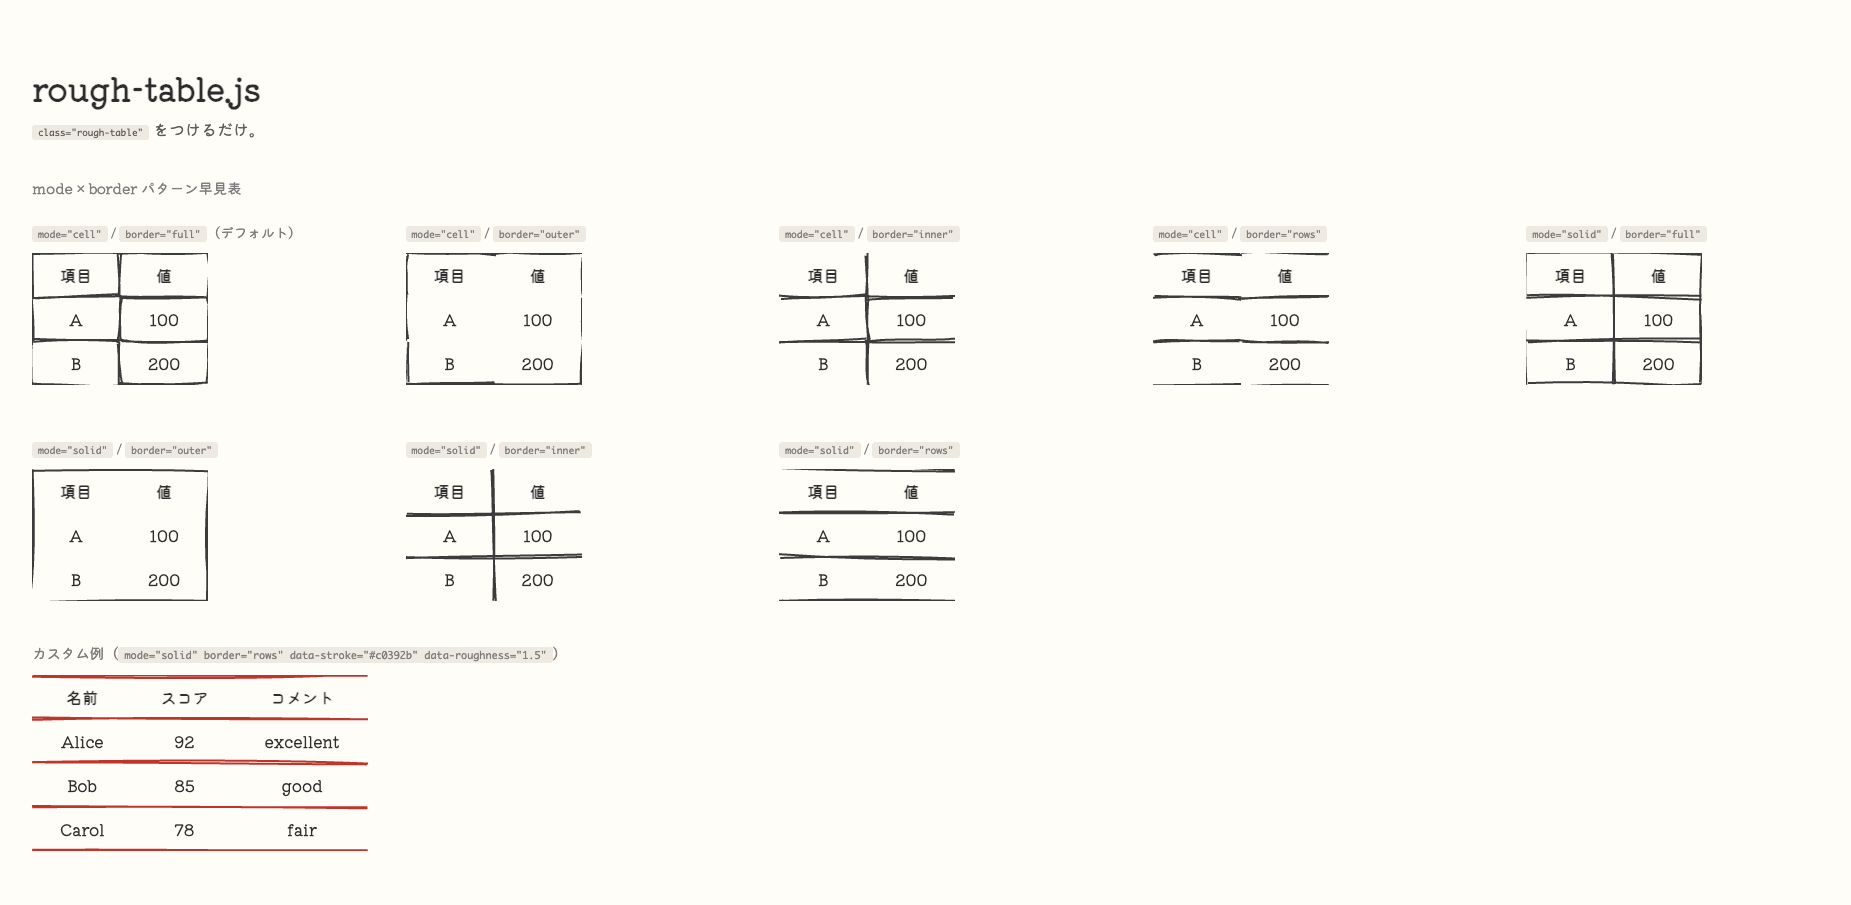
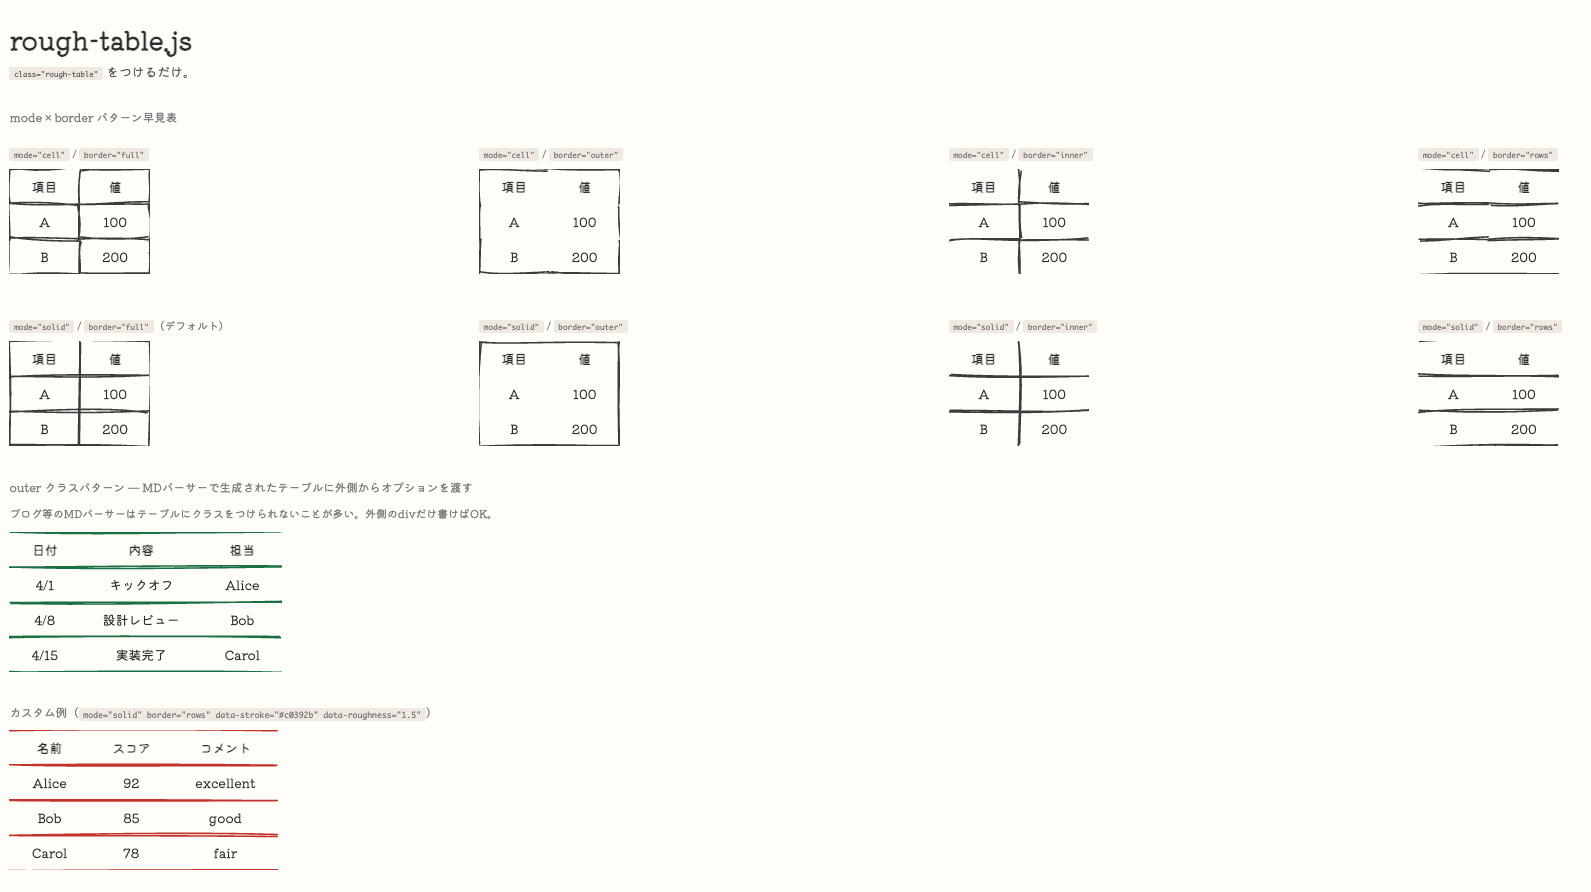
change default solid

diff --git a/rough-table.min.js b/rough-table.min.js
@@ -1,1 +1,1 @@
-(function(global){"use strict";const TRIGGER_CLASS="rough-table";const OUTER_CLASS="rough-table-outer";const CONTAINER_CLASS="rough-table-container";const SVG_ATTR="_roughTableSvg";const DEFAULTS={roughness:1.5,stroke:"#444",strokeWidth:2,bowing:1,mode:"cell",border:"full"};function parseOptions(el){const d=el.dataset;return{roughness:parseFloat(d.roughness??DEFAULTS.roughness),stroke:d.stroke??DEFAULTS.stroke,strokeWidth:parseFloat(d.strokeWidth??DEFAULTS.strokeWidth),bowing:parseFloat(d.bowing??DEFAULTS.bowing),mode:d.mode??DEFAULTS.mode,border:d.border??DEFAULTS.border}}function draw(table,optionsEl){if(typeof rough==="undefined"){console.warn("[rough-table] rough.js が読み込まれていません。");return}optionsEl=optionsEl||table;if(table[SVG_ATTR]){table[SVG_ATTR].remove();table[SVG_ATTR]=null}let container=table.parentElement;if(!container.classList.contains(CONTAINER_CLASS)){container=document.createElement("div");container.className=CONTAINER_CLASS;table.parentNode.insertBefore(container,table);container.appendChild(table)}Object.assign(container.style,{position:"relative",display:"inline-block"});Object.assign(table.style,{borderCollapse:"collapse",position:"relative",zIndex:"1",background:"transparent"});table.querySelectorAll("th, td").forEach(cell=>{cell.style.border="none"});const svg=document.createElementNS("http://www.w3.org/2000/svg","svg");Object.assign(svg.style,{position:"absolute",top:"0",left:"0",pointerEvents:"none",zIndex:"0"});svg.setAttribute("width",table.offsetWidth);svg.setAttribute("height",table.offsetHeight);container.insertBefore(svg,table);table[SVG_ATTR]=svg;const rc=rough.svg(svg);const opts=parseOptions(optionsEl);const lineOpts={stroke:opts.stroke,strokeWidth:opts.strokeWidth,roughness:opts.roughness,bowing:opts.bowing};const tableRect=table.getBoundingClientRect();const rows=Array.from(table.rows);if(opts.mode==="solid"){drawSolid(rows,tableRect,svg,rc,lineOpts,opts.border)}else{drawCell(rows,tableRect,svg,rc,lineOpts,opts.border)}}function drawCell(rows,tableRect,svg,rc,lineOpts,border){const totalRows=rows.length;rows.forEach((row,rowIndex)=>{const cells=Array.from(row.cells);cells.forEach((cell,colIndex)=>{const r=cell.getBoundingClientRect();const x=r.left-tableRect.left;const y=r.top-tableRect.top;const w=r.width;const h=r.height;const isFirstRow=rowIndex===0;const isLastRow=rowIndex===totalRows-1;const isFirstCol=colIndex===0;const isLastCol=colIndex===cells.length-1;const isHeader=cell.tagName==="TH";let top,bottom,left,right;switch(border){case"outer":top=isFirstRow;bottom=isLastRow;left=isFirstCol;right=isLastCol;break;case"inner":top=false;bottom=!isLastRow;left=!isFirstCol;right=false;break;case"rows":top=isFirstRow;bottom=true;left=false;right=false;break;default:top=isFirstRow||isHeader;bottom=true;left=true;right=isLastCol}if(top)svg.appendChild(rc.line(x,y,x+w,y,lineOpts));if(bottom)svg.appendChild(rc.line(x,y+h,x+w,y+h,lineOpts));if(left)svg.appendChild(rc.line(x,y,x,y+h,lineOpts));if(right)svg.appendChild(rc.line(x+w,y,x+w,y+h,lineOpts))})})}function drawSolid(rows,tableRect,svg,rc,lineOpts,border){const W=tableRect.width;const H=tableRect.height;const drawHLines=()=>{rows.slice(0,-1).forEach(row=>{const y=row.getBoundingClientRect().bottom-tableRect.top;svg.appendChild(rc.line(0,y,W,y,lineOpts))})};const drawVLines=()=>{const xSet=new Set;rows.forEach(row=>{Array.from(row.cells).slice(0,-1).forEach(cell=>{const x=Math.round(cell.getBoundingClientRect().right-tableRect.left);xSet.add(x)})});xSet.forEach(x=>svg.appendChild(rc.line(x,0,x,H,lineOpts)))};switch(border){case"outer":svg.appendChild(rc.rectangle(0,0,W,H,lineOpts));break;case"inner":drawHLines();drawVLines();break;case"rows":svg.appendChild(rc.line(0,0,W,0,lineOpts));svg.appendChild(rc.line(0,H,W,H,lineOpts));drawHLines();break;default:svg.appendChild(rc.rectangle(0,0,W,H,lineOpts));drawHLines();drawVLines()}}function observe(table,optionsEl){if(!window.ResizeObserver)return;const observer=new ResizeObserver(()=>draw(table,optionsEl));observer.observe(table)}function init(selector){document.querySelectorAll(selector||"."+TRIGGER_CLASS).forEach(table=>{draw(table);observe(table)});if(selector)return;document.querySelectorAll("."+OUTER_CLASS).forEach(outer=>{const table=outer.querySelector("table");if(!table)return;draw(table,outer);observe(table,outer)})}if(document.readyState==="loading"){document.addEventListener("DOMContentLoaded",()=>init())}else{init()}global.RoughTable={init:init,draw:draw}})(window);
+(function(global){"use strict";const TRIGGER_CLASS="rough-table";const OUTER_CLASS="rough-table-outer";const CONTAINER_CLASS="rough-table-container";const SVG_ATTR="_roughTableSvg";const DEFAULTS={roughness:1.5,stroke:"#444",strokeWidth:2,bowing:1,mode:"solid",border:"full"};function parseOptions(el){const d=el.dataset;return{roughness:parseFloat(d.roughness??DEFAULTS.roughness),stroke:d.stroke??DEFAULTS.stroke,strokeWidth:parseFloat(d.strokeWidth??DEFAULTS.strokeWidth),bowing:parseFloat(d.bowing??DEFAULTS.bowing),mode:d.mode??DEFAULTS.mode,border:d.border??DEFAULTS.border}}function draw(table,optionsEl){if(typeof rough==="undefined"){console.warn("[rough-table] rough.js が読み込まれていません。");return}optionsEl=optionsEl||table;if(table[SVG_ATTR]){table[SVG_ATTR].remove();table[SVG_ATTR]=null}let container=table.parentElement;if(!container.classList.contains(CONTAINER_CLASS)){container=document.createElement("div");container.className=CONTAINER_CLASS;table.parentNode.insertBefore(container,table);container.appendChild(table)}Object.assign(container.style,{position:"relative",display:"inline-block"});Object.assign(table.style,{borderCollapse:"collapse",position:"relative",zIndex:"1",background:"transparent"});table.querySelectorAll("th, td").forEach(cell=>{cell.style.border="none"});const svg=document.createElementNS("http://www.w3.org/2000/svg","svg");Object.assign(svg.style,{position:"absolute",top:"0",left:"0",pointerEvents:"none",zIndex:"0"});svg.setAttribute("width",table.offsetWidth);svg.setAttribute("height",table.offsetHeight);container.insertBefore(svg,table);table[SVG_ATTR]=svg;const rc=rough.svg(svg);const opts=parseOptions(optionsEl);const lineOpts={stroke:opts.stroke,strokeWidth:opts.strokeWidth,roughness:opts.roughness,bowing:opts.bowing};const tableRect=table.getBoundingClientRect();const rows=Array.from(table.rows);if(opts.mode==="solid"){drawSolid(rows,tableRect,svg,rc,lineOpts,opts.border)}else{drawCell(rows,tableRect,svg,rc,lineOpts,opts.border)}}function drawCell(rows,tableRect,svg,rc,lineOpts,border){const totalRows=rows.length;rows.forEach((row,rowIndex)=>{const cells=Array.from(row.cells);cells.forEach((cell,colIndex)=>{const r=cell.getBoundingClientRect();const x=r.left-tableRect.left;const y=r.top-tableRect.top;const w=r.width;const h=r.height;const isFirstRow=rowIndex===0;const isLastRow=rowIndex===totalRows-1;const isFirstCol=colIndex===0;const isLastCol=colIndex===cells.length-1;const isHeader=cell.tagName==="TH";let top,bottom,left,right;switch(border){case"outer":top=isFirstRow;bottom=isLastRow;left=isFirstCol;right=isLastCol;break;case"inner":top=false;bottom=!isLastRow;left=!isFirstCol;right=false;break;case"rows":top=isFirstRow;bottom=true;left=false;right=false;break;default:top=isFirstRow||isHeader;bottom=true;left=true;right=isLastCol}if(top)svg.appendChild(rc.line(x,y,x+w,y,lineOpts));if(bottom)svg.appendChild(rc.line(x,y+h,x+w,y+h,lineOpts));if(left)svg.appendChild(rc.line(x,y,x,y+h,lineOpts));if(right)svg.appendChild(rc.line(x+w,y,x+w,y+h,lineOpts))})})}function drawSolid(rows,tableRect,svg,rc,lineOpts,border){const W=tableRect.width;const H=tableRect.height;const drawHLines=()=>{rows.slice(0,-1).forEach(row=>{const y=row.getBoundingClientRect().bottom-tableRect.top;svg.appendChild(rc.line(0,y,W,y,lineOpts))})};const drawVLines=()=>{const xSet=new Set;rows.forEach(row=>{Array.from(row.cells).slice(0,-1).forEach(cell=>{const x=Math.round(cell.getBoundingClientRect().right-tableRect.left);xSet.add(x)})});xSet.forEach(x=>svg.appendChild(rc.line(x,0,x,H,lineOpts)))};switch(border){case"outer":svg.appendChild(rc.rectangle(0,0,W,H,lineOpts));break;case"inner":drawHLines();drawVLines();break;case"rows":svg.appendChild(rc.line(0,0,W,0,lineOpts));svg.appendChild(rc.line(0,H,W,H,lineOpts));drawHLines();break;default:svg.appendChild(rc.rectangle(0,0,W,H,lineOpts));drawHLines();drawVLines()}}function observe(table,optionsEl){if(!window.ResizeObserver)return;const observer=new ResizeObserver(()=>draw(table,optionsEl));observer.observe(table)}function init(selector){document.querySelectorAll(selector||"."+TRIGGER_CLASS).forEach(table=>{draw(table);observe(table)});if(selector)return;document.querySelectorAll("."+OUTER_CLASS).forEach(outer=>{const table=outer.querySelector("table");if(!table)return;draw(table,outer);observe(table,outer)})}if(document.readyState==="loading"){document.addEventListener("DOMContentLoaded",()=>init())}else{init()}global.RoughTable={init:init,draw:draw}})(window);

diff --git a/examples/index.html b/examples/index.html
@@ -4,6 +4,7 @@
   <meta charset="UTF-8">
   <title>rough-table.js デモ</title>
   <script src="https://unpkg.com/roughjs@latest/bundled/rough.js"></script>
+  <script src="../rough-table.min.js"></script>
   <link href="https://fonts.googleapis.com/css2?family=Kiwi+Maru&display=swap" rel="stylesheet">
   <style>
     body { font-family: 'Kiwi Maru', serif; padding: 50px; background: #fffdf9; color: #333; }
@@ -19,7 +20,7 @@
 
     .grid {
       display: grid;
-      grid-template-columns: repeat(auto-fill, minmax(260px, 1fr));
+      grid-template-columns: repeat(4, 1fr);
       gap: 3em 4em;
       margin-top: 1.5em;
     }
@@ -36,8 +37,8 @@
 <div class="grid">
 
   <div class="grid-item">
-    <h3><code>mode="cell"</code> / <code>border="full"</code>（デフォルト）</h3>
-    <table class="rough-table">
+    <h3><code>mode="cell"</code> / <code>border="full"</code></h3>
+    <table class="rough-table" data-mode="cell">
       <thead><tr><th>項目</th><th>値</th></tr></thead>
       <tbody>
         <tr><td>A</td><td>100</td></tr>
@@ -48,7 +49,7 @@
 
   <div class="grid-item">
     <h3><code>mode="cell"</code> / <code>border="outer"</code></h3>
-    <table class="rough-table" data-border="outer">
+    <table class="rough-table" data-mode="cell" data-border="outer">
       <thead><tr><th>項目</th><th>値</th></tr></thead>
       <tbody>
         <tr><td>A</td><td>100</td></tr>
@@ -59,7 +60,7 @@
 
   <div class="grid-item">
     <h3><code>mode="cell"</code> / <code>border="inner"</code></h3>
-    <table class="rough-table" data-border="inner">
+    <table class="rough-table" data-mode="cell" data-border="inner">
       <thead><tr><th>項目</th><th>値</th></tr></thead>
       <tbody>
         <tr><td>A</td><td>100</td></tr>
@@ -70,7 +71,7 @@
 
   <div class="grid-item">
     <h3><code>mode="cell"</code> / <code>border="rows"</code></h3>
-    <table class="rough-table" data-border="rows">
+    <table class="rough-table" data-mode="cell" data-border="rows">
       <thead><tr><th>項目</th><th>値</th></tr></thead>
       <tbody>
         <tr><td>A</td><td>100</td></tr>
@@ -80,7 +81,7 @@
   </div>
 
   <div class="grid-item">
-    <h3><code>mode="solid"</code> / <code>border="full"</code></h3>
+    <h3><code>mode="solid"</code> / <code>border="full"</code>（デフォルト）</h3>
     <table class="rough-table" data-mode="solid">
       <thead><tr><th>項目</th><th>値</th></tr></thead>
       <tbody>

diff --git a/rough-table.js b/rough-table.js
@@ -31,7 +31,7 @@
     stroke: '#444',
     strokeWidth: 2,
     bowing: 1,
-    mode: 'cell',
+    mode: 'solid',
     border: 'full',
   };
 

diff --git a/README.md b/README.md
@@ -67,7 +67,7 @@ Set via `data-*` attributes on the `<table>` (pattern A) or the outer element (p
 
 | Attribute | Description | Default |
 |---|---|---|
-| `data-mode` | Drawing mode: `cell` or `solid` | `cell` |
+| `data-mode` | Drawing mode: `cell` or `solid` | `solid` |
 | `data-border` | Border pattern (see below) | `full` |
 | `data-roughness` | How rough the lines look | `1.5` |
 | `data-stroke` | Line color | `#444` |
@@ -78,8 +78,8 @@ Set via `data-*` attributes on the `<table>` (pattern A) or the outer element (p
 
 | Value | Description |
 |---|---|
-| `cell` (default) | Draws borders cell by cell — like stamping each cell individually |
-| `solid` | Draws the outer frame first, then adds inner grid lines — closer to how you'd draw a table by hand |
+| `cell` | Draws borders cell by cell — like stamping each cell individually |
+| `solid` (default) | Draws the outer frame first, then adds inner grid lines — closer to how you'd draw a table by hand |
 
 ### `data-border`
 
